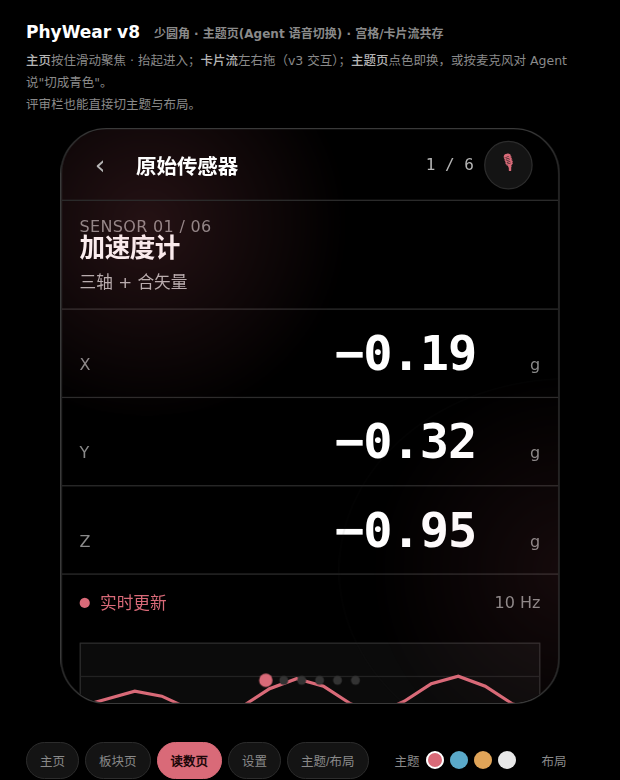
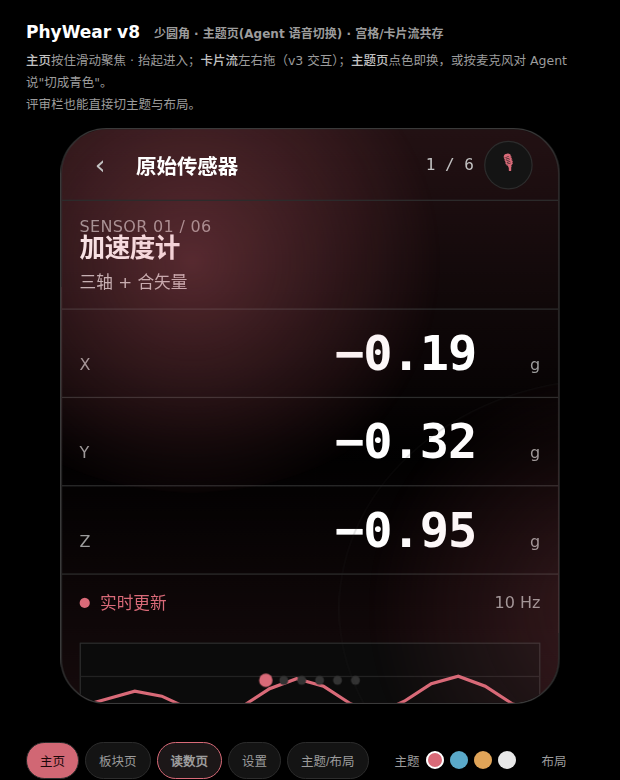
design(v8.6): 背景放开 —— 2 段竖直底晕(顶部.16/底部.10, 变量可调) + 光流体加大加亮(.34/.20)；次级文字提亮保可读

diff --git a/docs/design/phywear-v8-prototype.html b/docs/design/phywear-v8-prototype.html
@@ -23,8 +23,9 @@
 <style>
   :root{
     --bg:#000; --card:#141414; --card2:#1E1E1E; --line:#2C2C2C; --line2:#3A3A3A;
-    --fg:#FFF; --fg2:#B5B5B5; --fg3:#8A8A8A;
+    --fg:#FFF; --fg2:#C2C2C2; --fg3:#9C9C9C;   /* 带色底上提亮一档，保可读 */
     --accent:#D96A78; --ink:#1D0709;
+    --wash-top:.16; --wash-bottom:.10;      /* 背景底晕强度（一个变量调） */
     --r-tile:10px; --r-pill:999px;    /* 内容容器不再有圆角 */
   }
   [data-theme="rose"]  { --accent:#D96A78; --ink:#1D0709; }
@@ -54,13 +55,21 @@
 
   /* 光流体：两团跟随"当前模块位置"漂移的强调色环境光（v3 的效果搬回来）
      规矩：只用当前主题的单一强调色 · 透明度 ≤ .18 · 只动 transform/opacity · 由交互/数据驱动（不循环） */
+  /* 底晕：2 段竖直线性渐变（EPIC 支持的唯一渐变形态，上板可原样落） */
+  .bgwash{position:absolute;inset:0;z-index:0;pointer-events:none;
+          background:linear-gradient(180deg, var(--accent) 0%, rgba(0,0,0,0) 58%);
+          opacity:var(--wash-top,.16);transition:opacity .6s,background .6s}
+  .bgwash2{position:absolute;inset:0;z-index:0;pointer-events:none;
+           background:linear-gradient(0deg, var(--accent) 0%, rgba(0,0,0,0) 46%);
+           opacity:var(--wash-bottom,.10);transition:opacity .6s,background .6s}
+  /* 光流体：两团跟随模块位置漂移的强调色环境光（加大加亮版） */
   .glow{position:absolute;inset:0;z-index:1;pointer-events:none;overflow:hidden}
-  .glow i{position:absolute;left:0;top:0;width:360px;height:300px;border-radius:50%;
-          background:radial-gradient(circle at 50% 50%, var(--accent), transparent 68%);
+  .glow i{position:absolute;left:0;top:0;width:430px;height:360px;border-radius:50%;
+          background:radial-gradient(circle at 50% 50%, var(--accent), transparent 70%);
           will-change:transform,opacity;
           transition:transform .6s cubic-bezier(.22,1,.36,1),opacity .6s,background .6s}
-  .glow i.a{opacity:.17}
-  .glow i.b{opacity:.10}
+  .glow i.a{opacity:.34}
+  .glow i.b{opacity:.20}
 
   .bar{height:56px;display:flex;align-items:center;padding:0 20px 0 14px;   /* 右侧 20px：时间/⋯/版本号左移一点点 */position:relative;z-index:6;
        border-bottom:1px solid var(--line);transition:border-color .6s}
@@ -201,6 +210,7 @@
   </div>
 
   <div class="watch" id="watch">
+    <div class="bgwash"></div><div class="bgwash2"></div>
     <div class="glow" id="glow"><i class="a" id="gA"></i><i class="b" id="gB"></i></div>
     <div class="wash" id="wash"></div>
 
